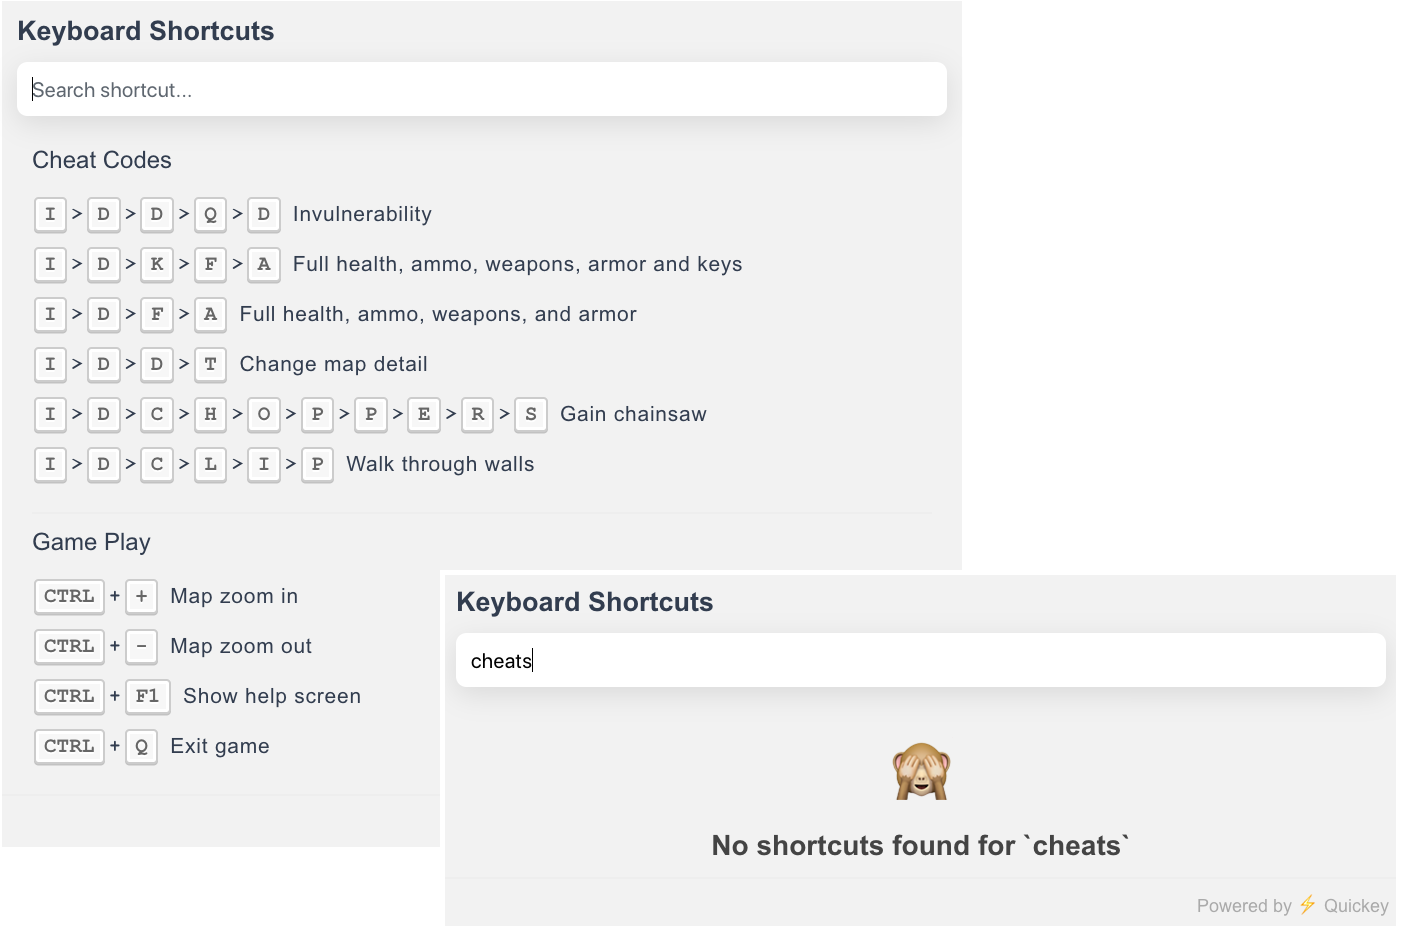
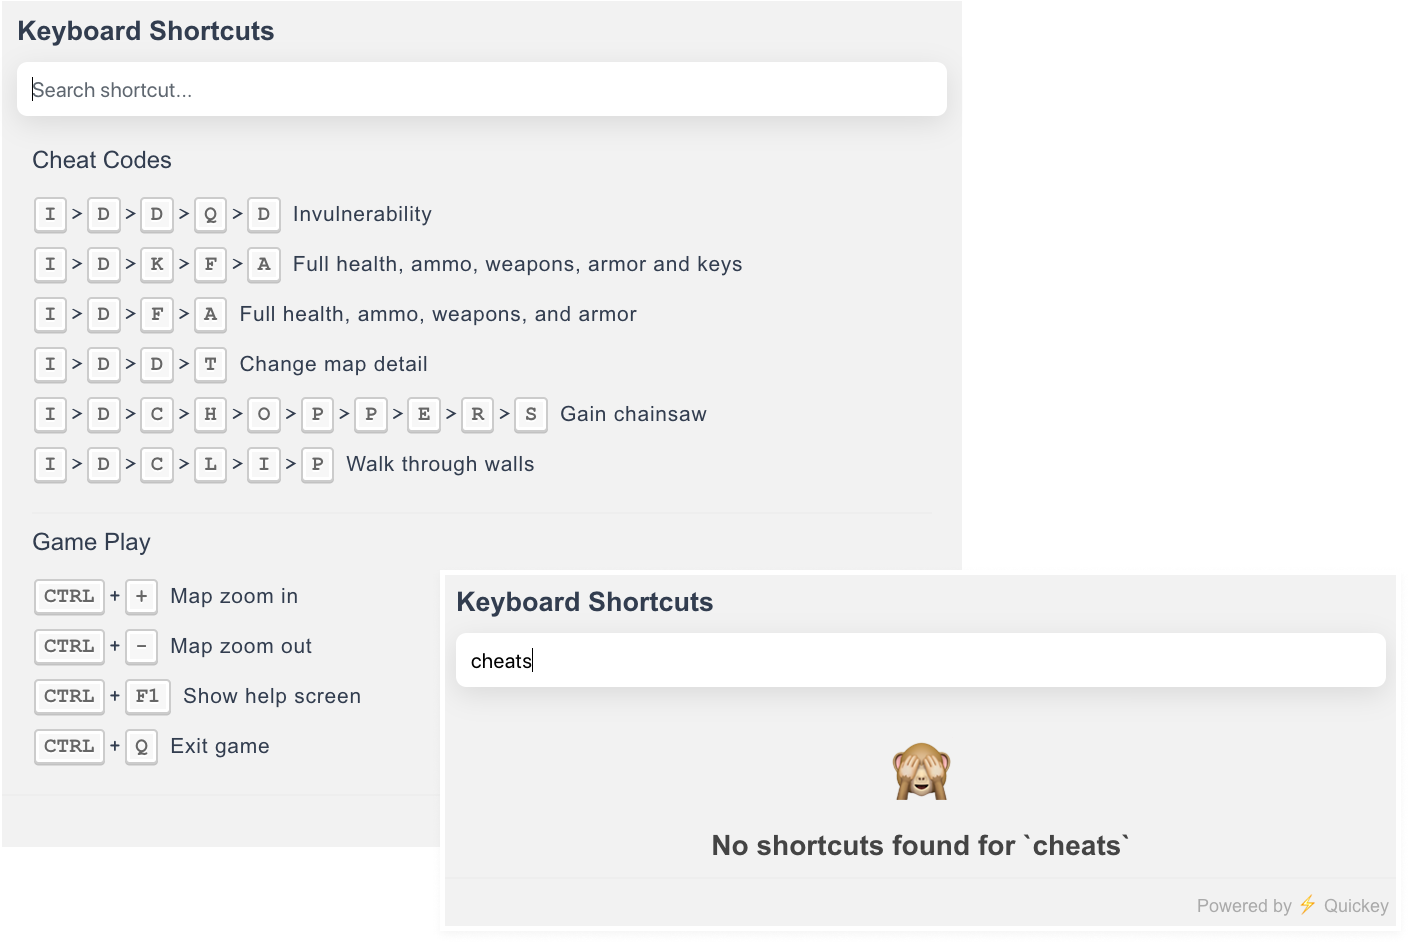
feat(module): edit readme

diff --git a/README.md b/README.md
@@ -20,7 +20,7 @@
 Quickey is a tool that helps you bind keyboard keys to actions in your web app. You can bind multiple actions to specific elements in your page to help your users navigate your application more efficiently and easily. It also includes UI elements that can be easily integrated in your web app.
 
 <p align="center">
-    <img alt="quickey" width="640"  src="https://raw.githubusercontent.com/quickey/quickey/master/assets/ui.png"/>
+    <img alt="quickey" src="https://raw.githubusercontent.com/quickey/quickey/master/assets/ui.png"/>
 </p>
 
 Checkout [@quickey/ui](packages/ui/README.md) for details.
